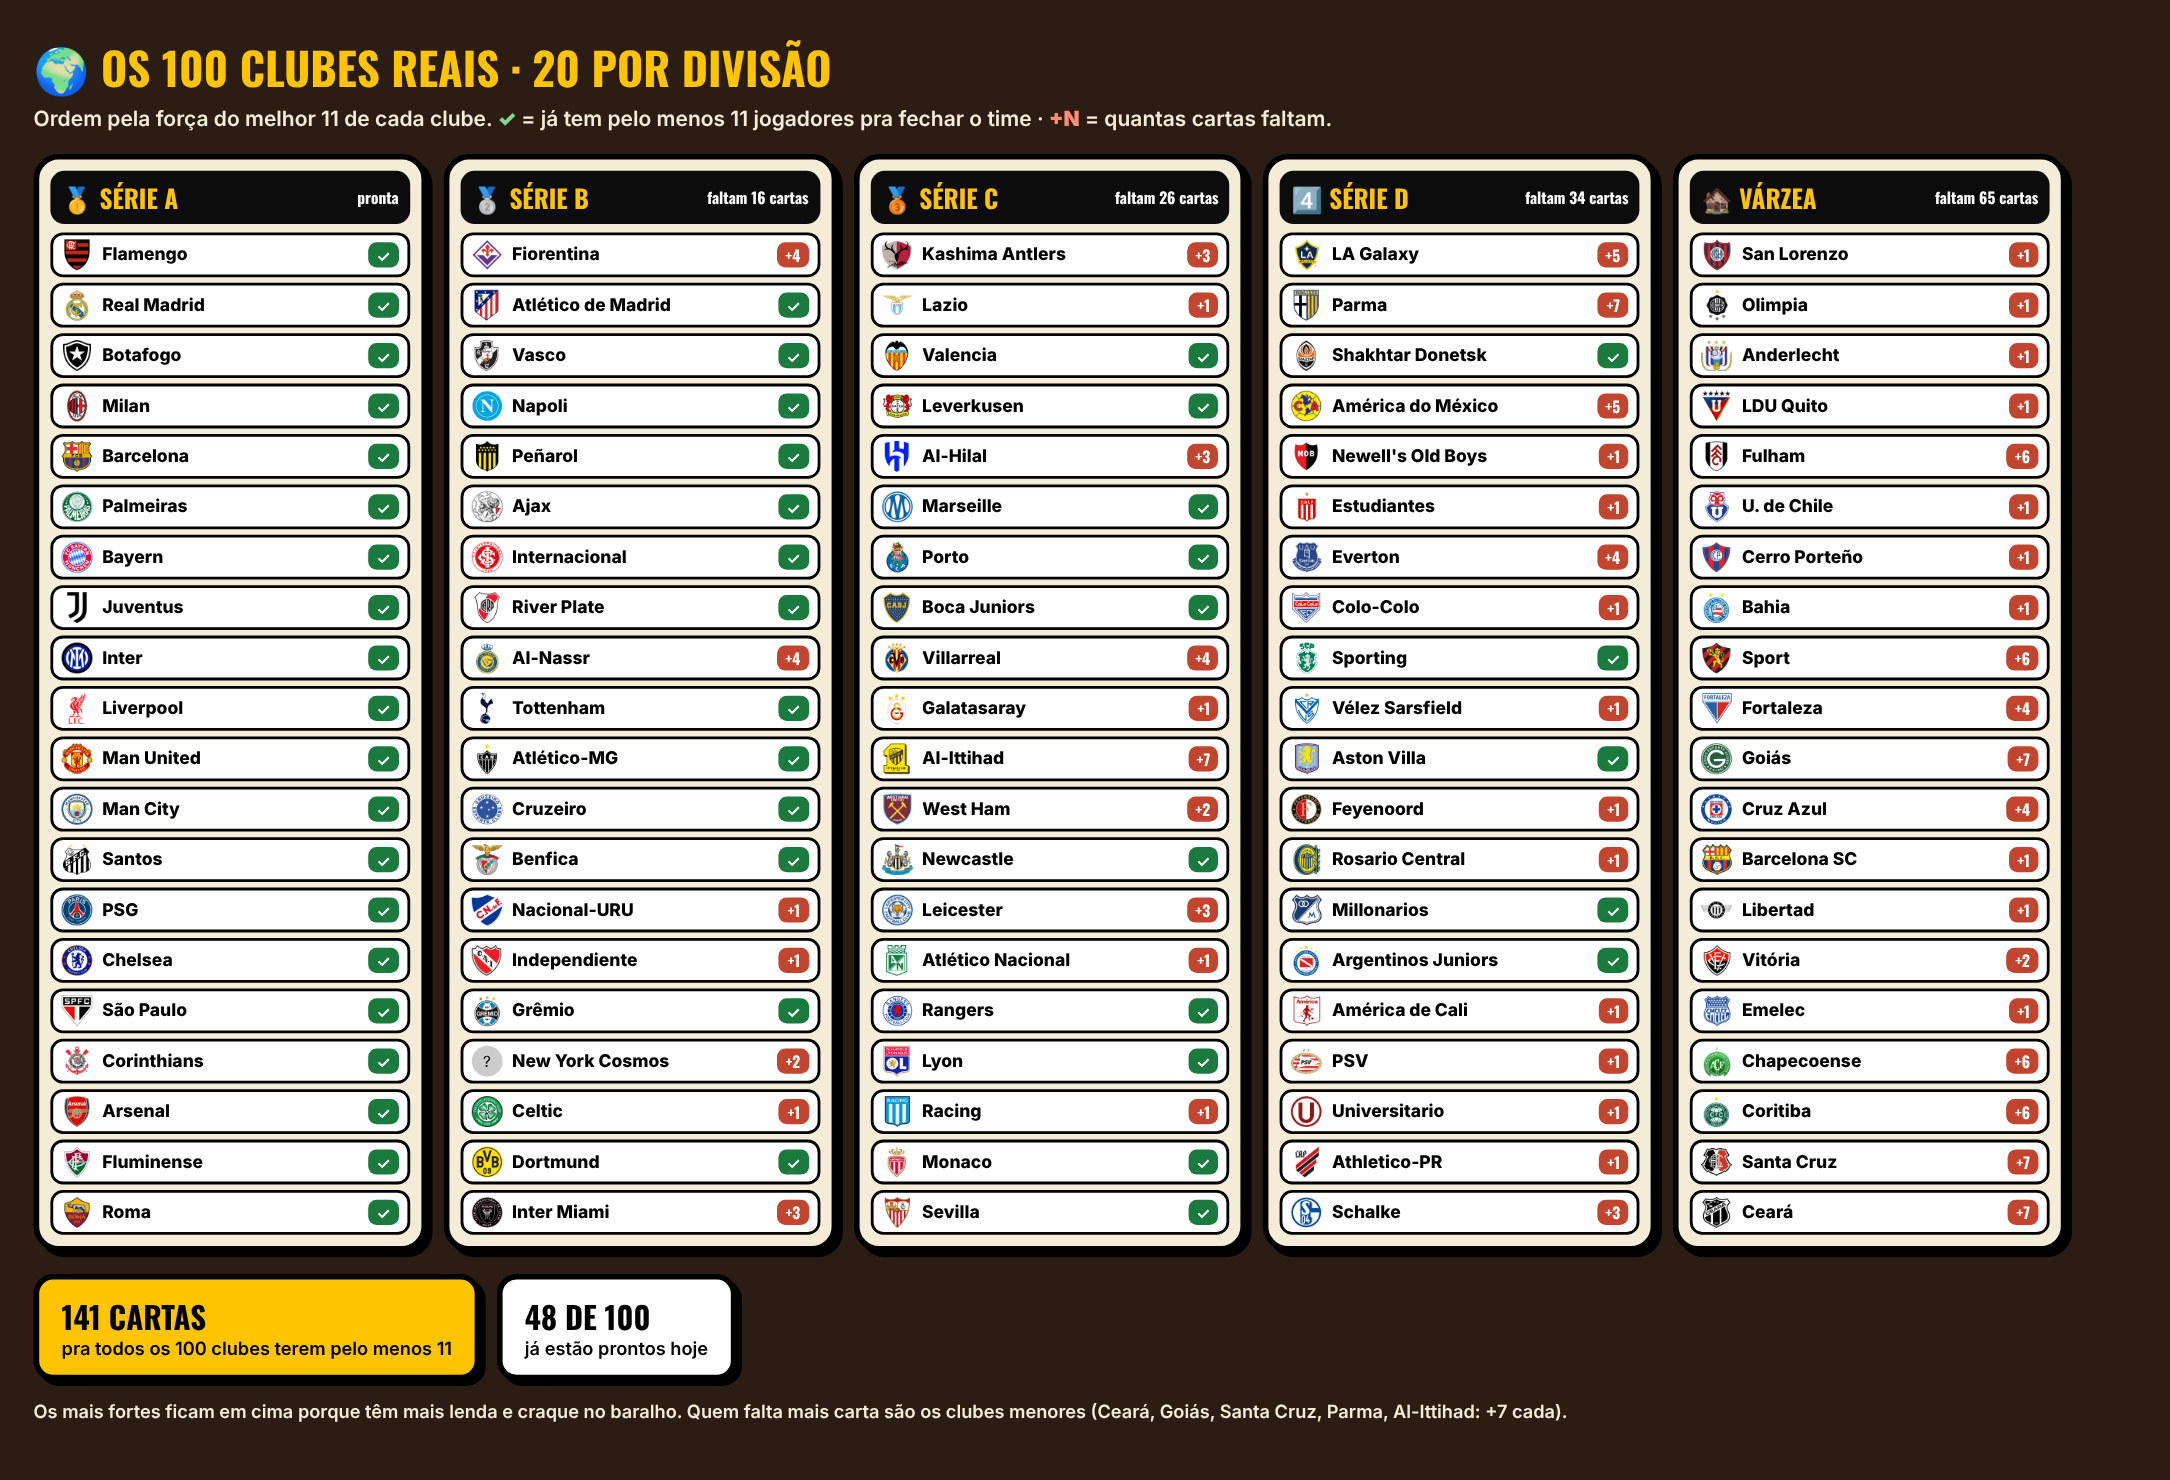
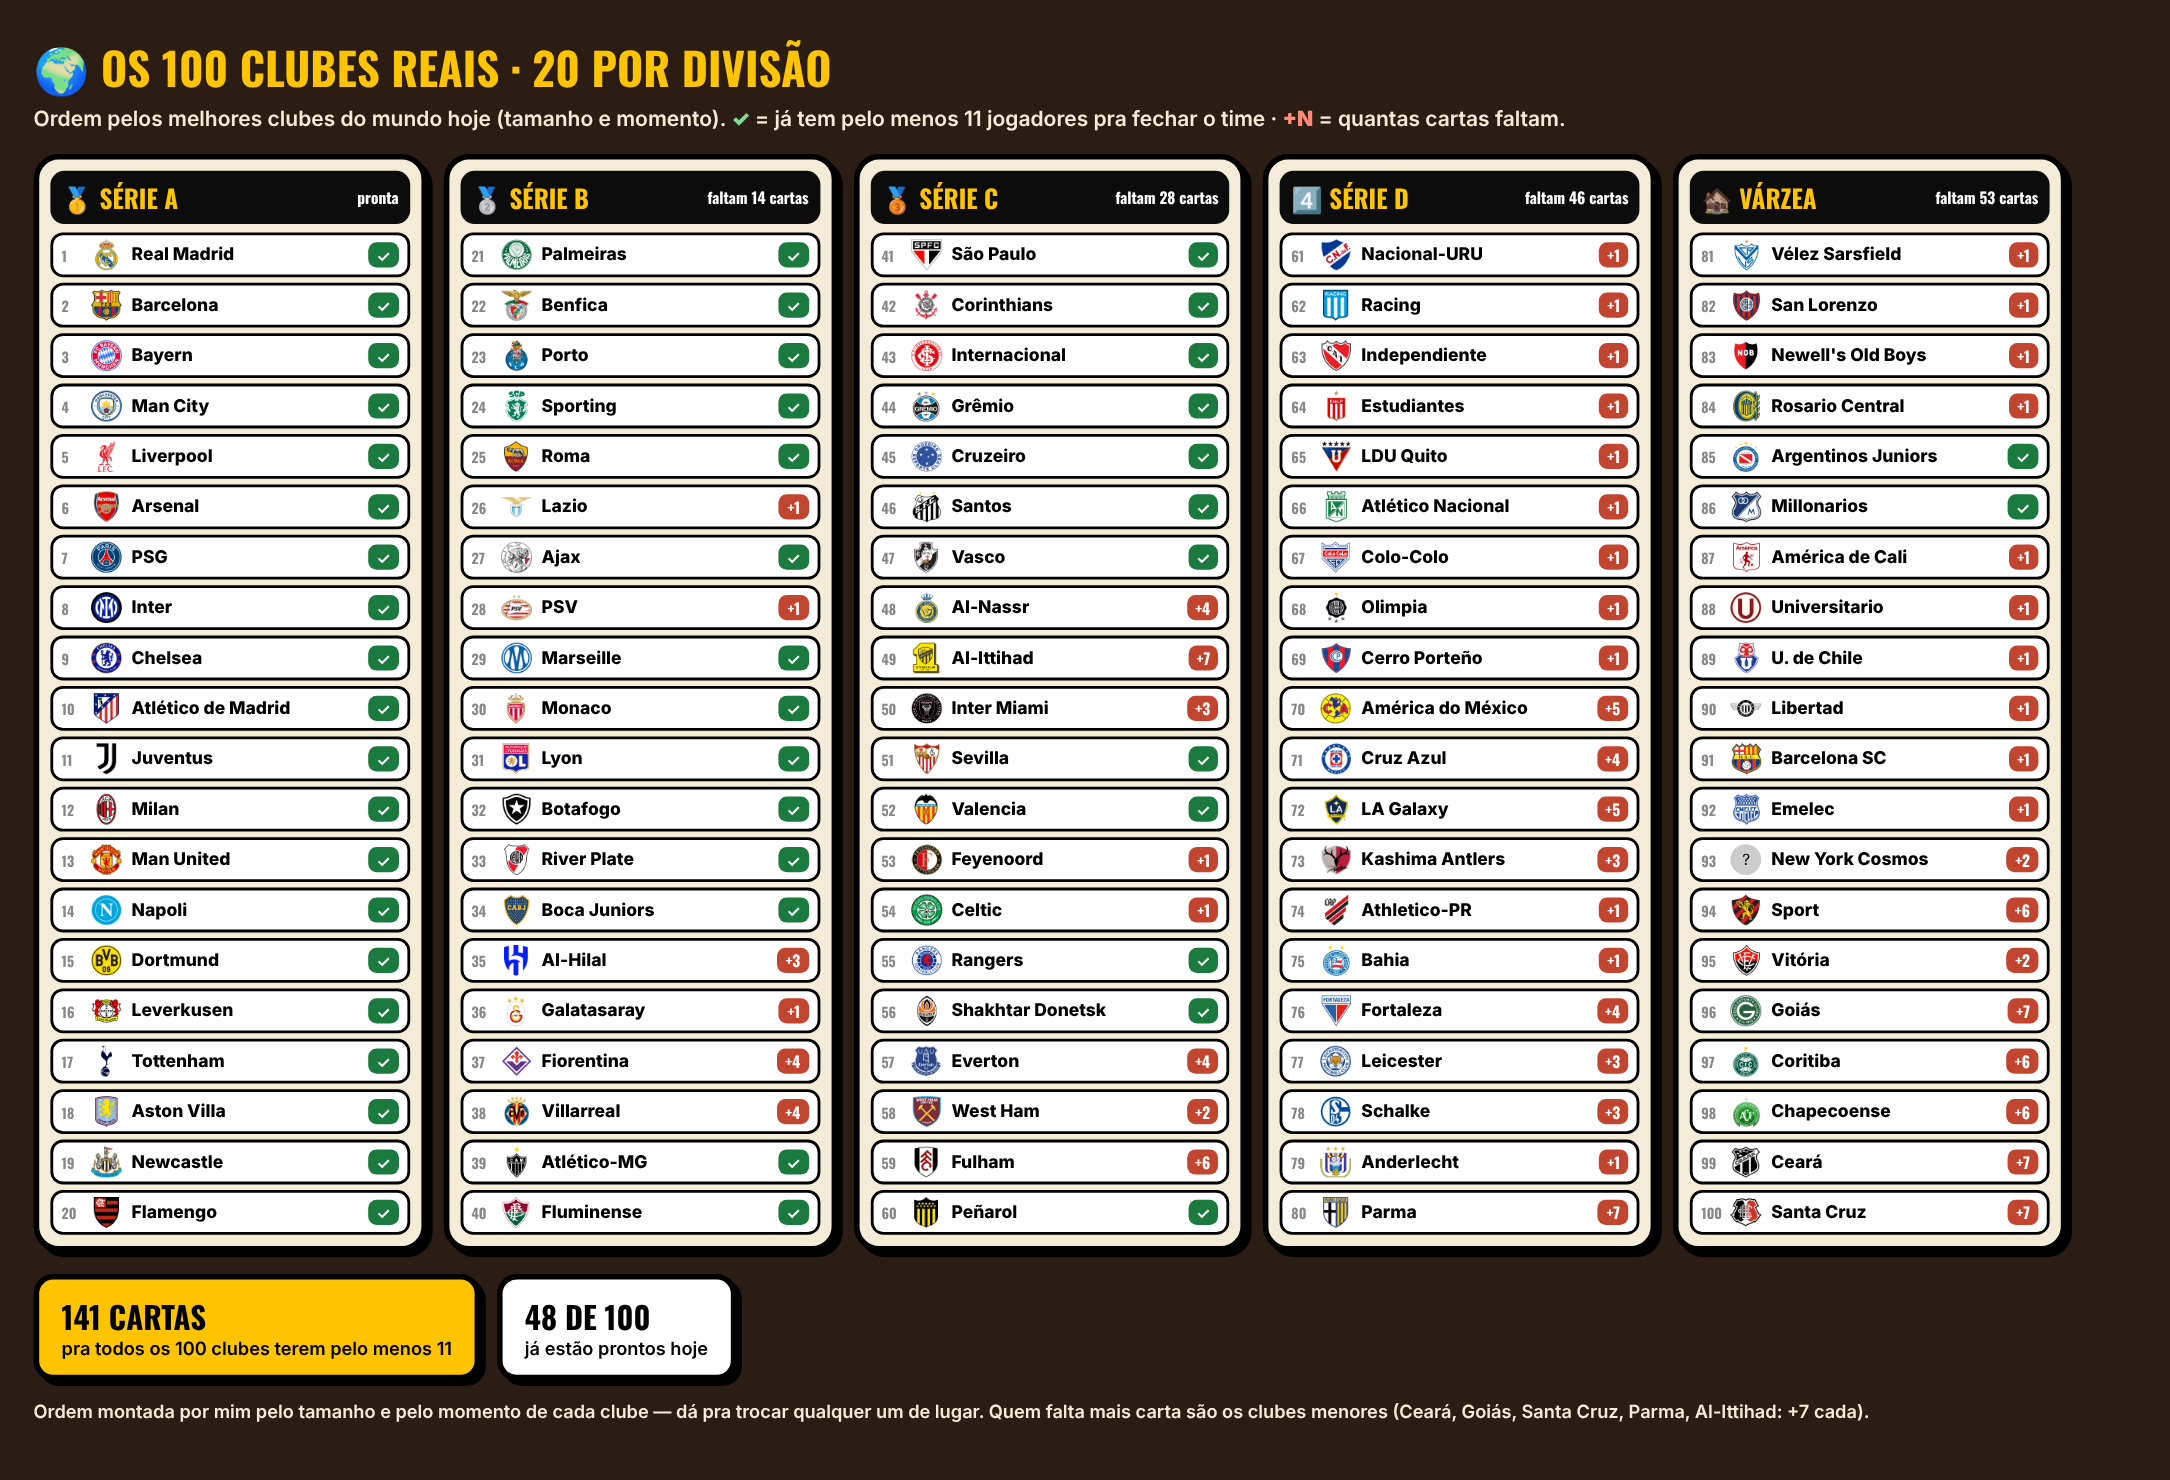
Mockup dos 100 clubes reais reordenado pelos melhores do mundo (pedido do Diego)
Claude-Session: https://claude.ai/code/session_018Ap1zPCMVL9XeZJN3u93ZA

diff --git a/docs/pendencias.md b/docs/pendencias.md
@@ -11856,4 +11856,4 @@ tabela antiga). Reverter = trocar os `s.simV = 8` de volta pra 7. Medido antes (
 - 🌍 **01/11: IDEIA 2 "carreira com clube real"** (mockup `scripts/mockups/carreira-clube-real.png`, depois que ele disse "não sei se gostei" da Liga dos Gigantes): ao começar a carreira, escolhe 🛡 Meu clube (como sempre) ou 🌍 Clube real (só com plano) — assume um dos 68 clubes com time completo e já leva TODAS as cartas dele; o resto do baralho vai pro leilão. Em aberto: divisão de início (elenco de Santos/Flamengo é seleção de todas as épocas — na Várzea fica fácil demais) e tamanho do elenco (51–79 cartas).
 - 🌍 **01/11: carreira com clube real, versão 3** (mockup `scripts/mockups/carreira-clube-real-2.png`): escolhe 🌍 Clube real (com plano) → 60 clubes em 5 grupos de 12 pela força (média das cartas) → o clube começa na divisão do grupo → o jogo SORTEIA 11 cartas do clube só pela posição (ideia do Diego) e o resto vai pro leilão/sobras → daí é a carreira de sempre (rivais = bots). Pra fechar 60 faltam 12 cartas (1 por clube: Lazio LAT; Bahia/Athletico ZAG; Celtic, PSV, Galatasaray, Feyenoord, Anderlecht, Nacional-URU, Racing, Independiente, Colo-Colo MEI). ⚠ Pela média das cartas, os brasileiros grandes (Flamengo, Corinthians, São Paulo, Santos) caem na Várzea — avisar o Diego.
 - 🌍 **01/11: PLANEJAMENTO da carreira com clube real** → `docs/conceito-carreira-clube-real.md`. Decidido: ⭐ Craque pra cima (gasta ficha), todos começam na Várzea com 11 sorteados por posição só entre as cartas FRACAS do clube, escada normal, sem mascote/gala/canto (fica pro batismo), Liberta/Champions com o PRÓPRIO clube (sul-americano → Liberta, europeu → Champions), SAF e 2º clube liberados. Decidido depois: 2º clube pode ser real (começa na Várzea) e ranking NOVO só de clubes reais. Em aberto: lançar com 17 ou fazer 73 cartas antes.
-- 🌍 **01/11: os 100 clubes reais (20 por divisão)** — mockup `scripts/mockups/clube-real-100.png`. Ordem pela força do melhor 11. Pra todos terem pelo menos 11 (GOL1 LAT2 ZAG2 MEI4 ATA3): **141 cartas** (A 0 · B 16 · C 26 · D 34 · Várzea 65). 48 de 100 já prontos. New York Cosmos sem escudo.
+- 🌍 **01/11: os 100 clubes reais (20 por divisão)** — mockup `scripts/mockups/clube-real-100.png`. Ordem = "os melhores do mundo da minha cabeça" (pedido do Diego, sem o Opta: theanalyst.com bloqueado na rede). Faltas por divisão nessa ordem: A 0 · B 14 · C 28 · D 46 · V 53. Pra todos terem pelo menos 11 (GOL1 LAT2 ZAG2 MEI4 ATA3): **141 cartas** (A 0 · B 16 · C 26 · D 34 · Várzea 65). 48 de 100 já prontos. New York Cosmos sem escudo.
